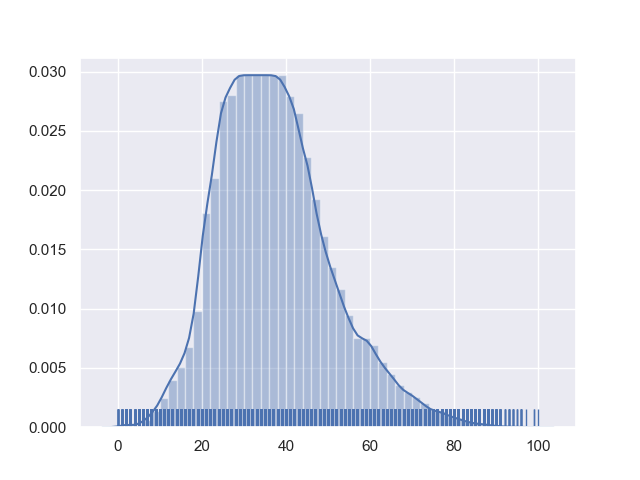
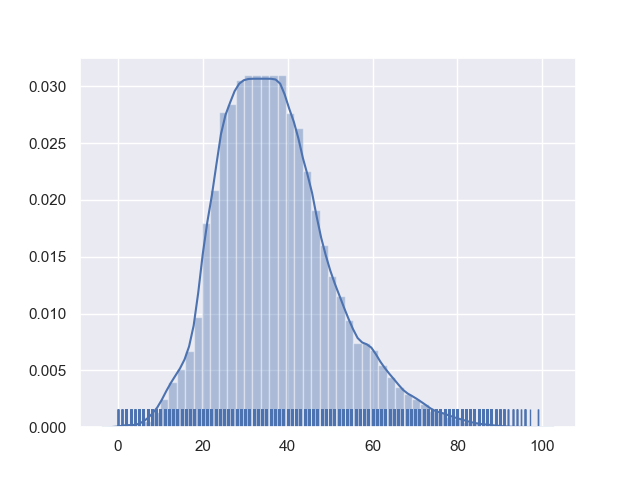
update

diff --git a/README.md b/README.md
@@ -12,7 +12,7 @@
 
 ### 年龄分布：
 
-460723张照片为平衡每个年龄最多只保存5000张，清洗后得到168303张，按年龄分布作图：
+460723张照片为平衡每个年龄最多只保存5000张，清洗后得到163065张，按年龄分布作图：
 
 ![image](https://github.com/foamliu/Joint-Estimation-of-Age-and-Gender/raw/master/images/age.png)
 
@@ -26,21 +26,3 @@
 |性别：女, 年龄：25|性别：男, 年龄：64|性别：女, 年龄：30|性别：男, 年龄：35|
 |![image](https://github.com/foamliu/Joint-Estimation-of-Age-and-Gender/raw/master/images/8_img.jpg)  | ![image](https://github.com/foamliu/Joint-Estimation-of-Age-and-Gender/raw/master/images/9_img.jpg) |
 |性别：女, 年龄：27|性别：女, 年龄：30|
-
-## 用法
-
-### 数据预处理
-清洗得到168303张训练图像：
-```bash
-$ python pre_process.py
-```
-
-### 训练
-```bash
-$ python train.py
-```
-
-### Demo
-```bash
-$ python demo.py
-```
